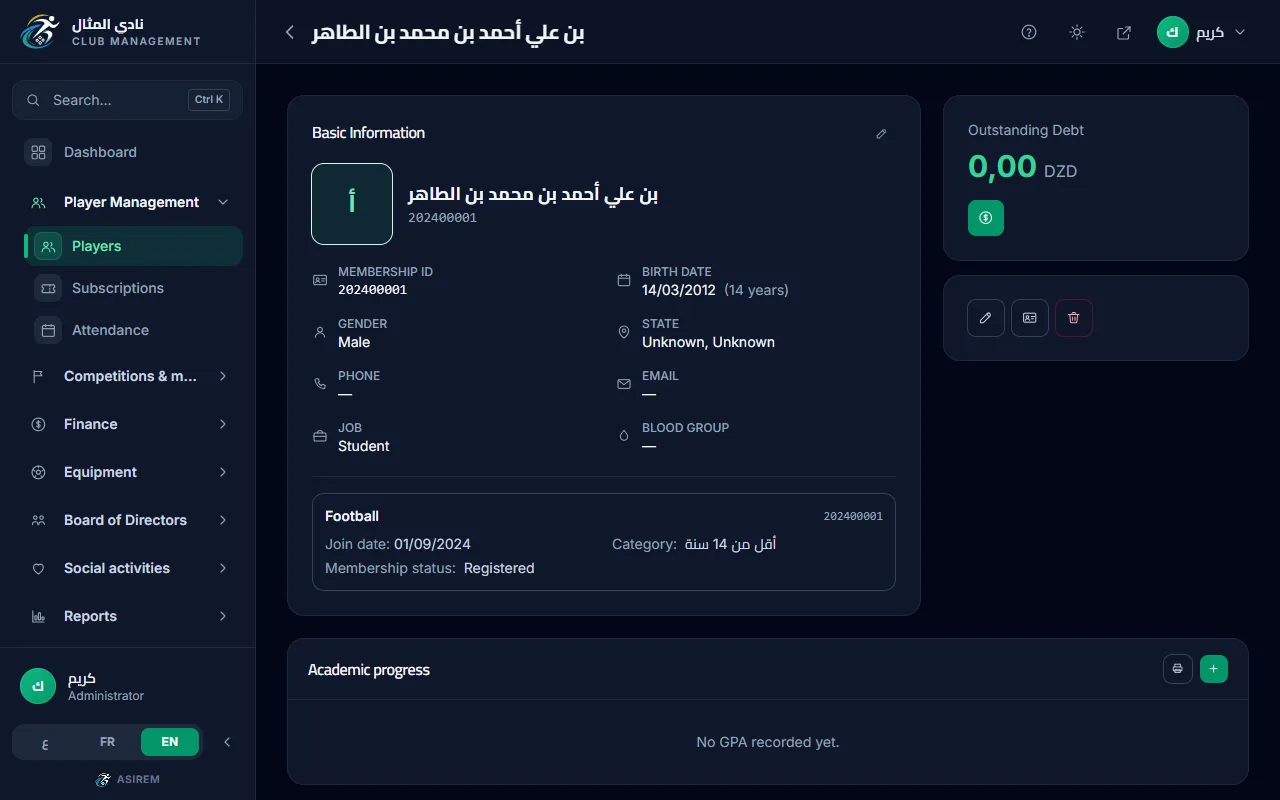
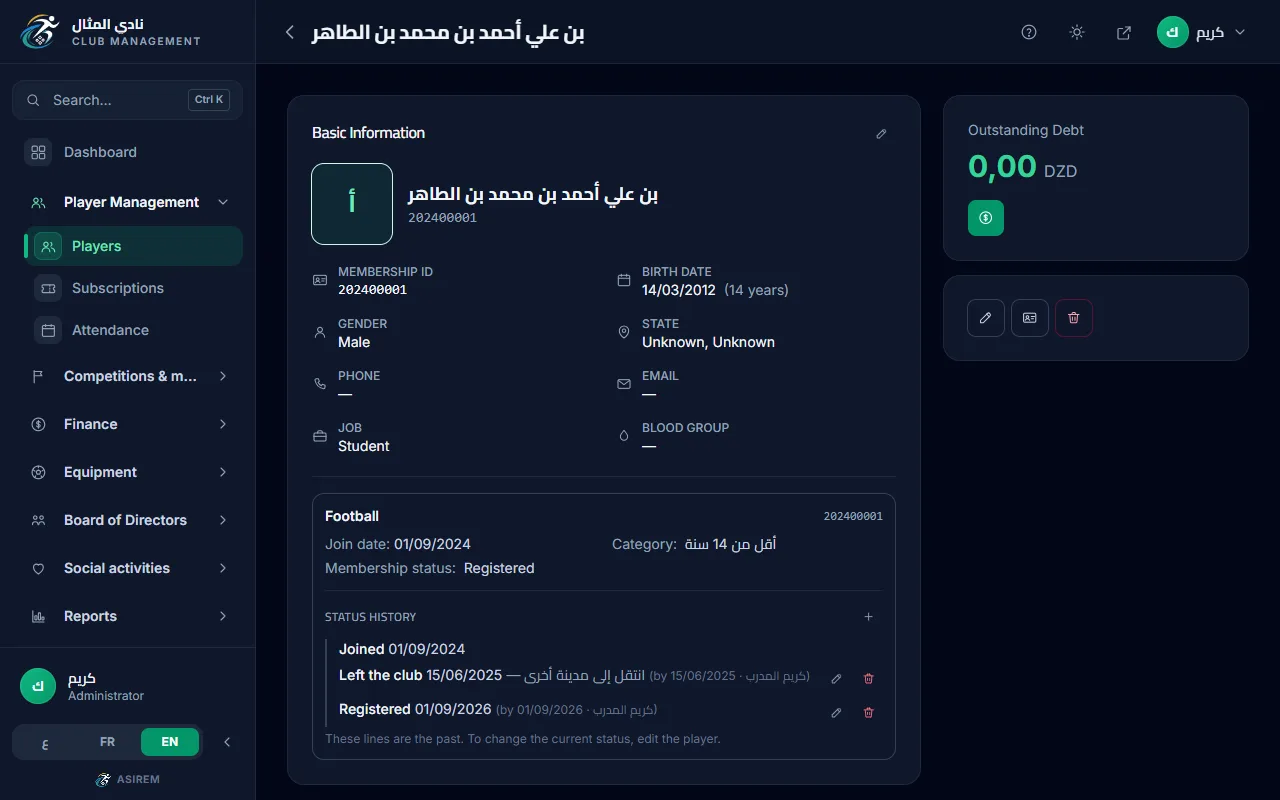
docs(help): screenshots for the status-history article
Five figures in ar/fr/en: the edit button, the status change on أحمد's
football card (left the club, 15/06/2025, reason), and his status history
with the add-past-line and edit-line buttons. The demo club gives أحمد a
departure on 15/06/2025 and a return on 01/09/2026.

The player-page shots predated the history section and are retaken. With a
history under each card, ياسين's two cards no longer fit under the branch
tabs, so they get their own shot (player-show-2-cards), used by the
branch-registrations article.

The recorder's name in a history line sits in a <bdi>: an Arabic name in the
French or English line reordered the date and brackets around it.

Changed region(s): [[0.2188, 0.75, 0.6562, 0.9375], [0.9062, 0.8125, 0.9688, 0.875], [0.5938, 0.8438, 0.625, 0.875]]

diff --git a/resources/js/Pages/Players/Partials/RegistrationsSection.vue b/resources/js/Pages/Players/Partials/RegistrationsSection.vue
@@ -46,6 +46,10 @@ function confirmDelete() {
 }
 
 const recordedOn = (line) => (line.recorded_at ? props.formatDate(line.recorded_at) : '');
+
+// "by {name}" split around the name, so the name sits in its own <bdi>: an Arabic name in the
+// French or English sentence would otherwise reorder the date and brackets around it.
+const byParts = () => t('status_history.by', { name: '\u0000' }).split('\u0000');
 </script>
 
 <template>
@@ -83,10 +87,10 @@ const recordedOn = (line) => (line.recorded_at ? props.formatDate(line.recorded_
                 <div v-if="registration.sporting_status"><dt class="inline text-slate-500 dark:text-slate-400">{{ t('sporting_status') }}:</dt> <dd class="ms-1 inline">{{ named(registration.sporting_status) }}</dd></div>
             </dl>
 
-            <section v-if="registration.status_history" class="mt-3 border-t border-slate-100 pt-3 dark:border-slate-800" data-help="player-status-history">
+            <section v-if="registration.status_history" class="mt-3 border-t border-slate-100 pt-3 dark:border-slate-800" :data-help="index === 0 ? 'player-status-history' : undefined">
                 <div class="flex items-center justify-between gap-2">
                     <h4 class="text-xs font-semibold uppercase tracking-wide text-slate-500 dark:text-slate-400">{{ t('status_history.title') }}</h4>
-                    <IconButton v-if="canEditHistory()" icon="plus" :label="t('status_history.add')" plain size="sm" @click="openAdd(registration)" />
+                    <IconButton v-if="canEditHistory()" icon="plus" :label="t('status_history.add')" plain size="sm" :data-help="index === 0 ? 'player-status-add' : undefined" @click="openAdd(registration)" />
                 </div>
                 <ol class="mt-2 space-y-1.5 border-s-2 border-slate-200 ps-3 text-sm dark:border-slate-700">
                     <li class="text-slate-600 dark:text-slate-300">
@@ -97,15 +101,15 @@ const recordedOn = (line) => (line.recorded_at ? props.formatDate(line.recorded_
                             <template v-else>—</template>
                         </span>
                     </li>
-                    <li v-for="line in registration.status_history" :key="line.id" class="flex items-start justify-between gap-2 text-slate-600 dark:text-slate-300">
+                    <li v-for="(line, lineIndex) in registration.status_history" :key="line.id" class="flex items-start justify-between gap-2 text-slate-600 dark:text-slate-300">
                         <div class="min-w-0">
                             <span class="font-medium text-slate-800 dark:text-slate-100">{{ line.to_status ? named(line.to_status) : t('status_history.removed_status') }}</span>
                             <span class="ms-1">{{ formatDate(line.changed_on) }}</span>
                             <span v-if="line.note" class="ms-1 text-slate-500 dark:text-slate-400">— {{ line.note }}</span>
-                            <span v-if="line.user" class="ms-1 text-xs text-slate-400 dark:text-slate-500">({{ t('status_history.by', { name: line.user }) }}<template v-if="recordedOn(line)"> · {{ recordedOn(line) }}</template>)</span>
+                            <span v-if="line.user" class="ms-1 text-xs text-slate-400 dark:text-slate-500">({{ byParts()[0] }}<bdi>{{ line.user }}</bdi>{{ byParts()[1] ?? '' }}<template v-if="recordedOn(line)"> · {{ recordedOn(line) }}</template>)</span>
                         </div>
                         <div v-if="canEditHistory()" class="flex shrink-0 items-center gap-1">
-                            <IconButton icon="pencil" :label="t('status_history.edit')" plain size="sm" icon-only @click="openEdit(line)" />
+                            <IconButton icon="pencil" :label="t('status_history.edit')" plain size="sm" icon-only :data-help="index === 0 && lineIndex === 0 ? 'player-status-edit' : undefined" @click="openEdit(line)" />
                             <IconButton icon="trash" :label="t('status_history.delete')" variant="danger" plain size="sm" icon-only @click="deleting = line" />
                         </div>
                     </li>

diff --git a/resources/help/shots.js b/resources/help/shots.js
@@ -42,6 +42,8 @@ const DATA = {
     'السباحة': { fr: 'Natation', en: 'Swimming' },
     // Built-in role (RoleSeeder).
     'مدرب': { fr: 'Entraîneur', en: 'Coach' },
+    // Built-in membership status (create_player_statuses_table migration).
+    'غادر الفريق': { fr: 'A quitté le club', en: 'Left the club' },
 };
 // Built-in finance categories: 'base name' => ['fr', 'ar'] (App\Support\FinanceCategoryTranslations);
 // English shows the base name.
@@ -196,7 +198,15 @@ export default [
     },
     { name: 'player-show', url: '/players/1', targets: ['player-header', 'player-registrations', 'player-actions', 'player-edit'] },
     // Player 2 (ياسين بوزيد) plays football and swims: two cards, and the branch tabs.
-    { name: 'player-show-2', url: '/players/2', targets: ['player-tabs', 'player-registrations'] },
+    { name: 'player-show-2', url: '/players/2', targets: ['player-tabs'] },
+    // Each card carries its «سجل الحالة»: the two cards end below the screen (and the tabs above
+    // it once they show), so they have their own shot, scrolled to them.
+    {
+        name: 'player-show-2-cards',
+        url: '/players/2',
+        targets: ['player-registrations'],
+        before: async (page) => { await centre(page, 'player-registrations'); },
+    },
     {
         name: 'player-documents',
         url: '/players/1',
@@ -259,6 +269,27 @@ export default [
             await blur(page);
             await centre(page, 'player-branch-card');
         },
+    },
+    {
+        // The status-history example: أحمد leaves football. «غادر الفريق» on his card brings the
+        // «تاريخ التغيير» and «ملاحظة» fields; 15/06/2025 and the reason are typed. Never saved.
+        name: 'player-edit-status',
+        url: '/players/1/edit',
+        targets: ['player-branch-card', 'player-status', 'player-status-date', 'player-status-note'],
+        before: async (page) => {
+            await choose(page.locator('[data-help="player-status"] select'), 'غادر الفريق');
+            await page.locator('[data-help="player-status-date"] input').fill('2025-06-15');
+            await page.locator('[data-help="player-status-note"] input').fill('انتقل إلى مدينة أخرى');
+            await blur(page);
+            await centre(page, 'player-status');
+        },
+    },
+    {
+        // أحمد's football history (HelpDemoSeeder::seedStatusHistory): left 15/06/2025, back 01/09/2026.
+        name: 'player-status-history',
+        url: '/players/1',
+        targets: ['player-status-history', 'player-status-add', 'player-status-edit'],
+        before: async (page) => { await centre(page, 'player-status-history'); },
     },
     // The list is longer than the screen: the first row carries the ring.
     { name: 'join-dates', url: '/players/join-dates', targets: ['join-dates-row'] },

diff --git a/resources/js/Pages/Players/Partials/RegistrationCard.vue b/resources/js/Pages/Players/Partials/RegistrationCard.vue
@@ -173,7 +173,7 @@ const dateRequired = computed(() => props.card.is_new || props.card.had_date);
                 <TextInput v-model="card.licence_number" class="mt-1 w-full" maxlength="50" dir="ltr" />
                 <InputError :message="fieldError('licence_number')" class="mt-1" />
             </div>
-            <div>
+            <div :data-help="index === 0 ? 'player-status' : undefined">
                 <InputLabel :value="t('membership_status')" />
                 <select v-model="card.status_id" :class="selectClass">
                     <option value="">-</option>
@@ -182,12 +182,12 @@ const dateRequired = computed(() => props.card.is_new || props.card.had_date);
                 <InputError :message="fieldError('status_id')" class="mt-1" />
             </div>
             <template v-if="changing">
-                <div>
+                <div :data-help="index === 0 ? 'player-status-date' : undefined">
                     <InputLabel :value="t('status_change.date') + ' *'" />
                     <TextInput v-model="card.status_changed_on" type="date" class="mt-1 w-full" :max="today" required />
                     <InputError :message="fieldError('status_changed_on')" class="mt-1" />
                 </div>
-                <div>
+                <div :data-help="index === 0 ? 'player-status-note' : undefined">
                     <InputLabel :value="t('status_change.note')" />
                     <TextInput v-model="card.status_note" class="mt-1 w-full" maxlength="255" :placeholder="t('status_change.note_hint')" />
                     <InputError :message="fieldError('status_note')" class="mt-1" />

diff --git a/database/seeders/HelpDemoSeeder.php b/database/seeders/HelpDemoSeeder.php
@@ -6,6 +6,8 @@ use App\Models\Branch;
 use App\Models\Category;
 use App\Models\DocumentType;
 use App\Models\Player;
+use App\Models\PlayerStatus;
+use App\Models\RegistrationStatusChange;
 use App\Models\User;
 use App\Models\WebsiteConfig;
 use App\Services\Player\MembershipNumber;
@@ -183,5 +185,37 @@ class HelpDemoSeeder extends Seeder
         $this->call(HelpDemoBoardSeeder::class);
         $this->call(HelpDemoCompetitionsSeeder::class);
         $this->call(HelpDemoSocialSeeder::class);
+
+        $this->seedStatusHistory();
+    }
+
+    /**
+     * The status-history article's example: أحمد left football on 15/06/2025 and came back on
+     * 01/09/2026, both recorded by the demo user on the day. Written as plain lines (the article
+     * shows what the player form would have kept); his current status stays «منخرط».
+     */
+    private function seedStatusHistory(): void
+    {
+        $registration = Player::query()->orderBy('id')->firstOrFail()->registrations()->firstOrFail();
+        $statuses = PlayerStatus::query()->whereIn('code', ['registered', 'left'])->pluck('id', 'code');
+        $userId = User::where('username', self::USERNAME)->value('id');
+
+        foreach ([
+            ['registered', 'left', '2025-06-15', 'انتقل إلى مدينة أخرى'],
+            ['left', 'registered', '2026-09-01', null],
+        ] as [$from, $to, $day, $note]) {
+            $line = new RegistrationStatusChange([
+                'branch_registration_id' => $registration->id,
+                'from_status_id' => $statuses[$from],
+                'to_status_id' => $statuses[$to],
+                'changed_on' => $day,
+                'note' => $note,
+                'user_id' => $userId,
+                'origin' => RegistrationStatusChange::ORIGIN_FORM,
+            ]);
+            // Recorded on the day, so the shots don't change with the seed day.
+            $line->created_at = $line->updated_at = $day.' 10:00:00';
+            $line->save();
+        }
     }
 }

diff --git a/resources/help/ar/players/status-history.md b/resources/help/ar/players/status-history.md
@@ -14,14 +14,17 @@ related: [players/branch-registrations, players/edit-player, players/player-page
 
 :::step افتح صفحة «تعديل اللاعب»
 في صفحة أحمد، اضغط على الزر الذي عليه رسم قلم، واسمه «تعديل اللاعب».
+::figure player-show ring=player-edit zoom=player-edit
 :::
 
 :::step غيّر «حالة العضوية»
 في بطاقة «كرة القدم»، اختر «غادر الفريق». تظهر خانتان: «تاريخ التغيير» و«ملاحظة».
+::figure player-edit-status ring=player-status
 :::
 
 :::step اكتب التاريخ والسبب
 في «تاريخ التغيير»، اختر 15/06/2025. في «ملاحظة»، اكتب السبب إن شئت. ثم اضغط «حفظ التغييرات».
+::figure player-edit-status ring=player-status-date zoom=player-status-date
 :::
 
 :::step سجّل العودة بالطريقة نفسها
@@ -30,10 +33,12 @@ related: [players/branch-registrations, players/edit-player, players/player-page
 
 :::step اقرأ «سجل الحالة»
 في صفحة اللاعب، تحت كل فرع، يظهر «سجل الحالة»: تاريخ الانضمام، ثم كل تغيير بتاريخه وملاحظته ومن سجّله.
+::figure player-status-history ring=player-status-history
 :::
 
 :::step أضف ما حدث قبل اليوم
 لتسجيل مغادرة قديمة، اضغط «إضافة سطر سابق» في «سجل الحالة». لتصحيح سطر، اضغط زر القلم بجانبه.
+::figure player-status-history ring=player-status-add zoom=player-status-edit
 :::
 
 :::warning

diff --git a/resources/help/fr/players/status-history.md b/resources/help/fr/players/status-history.md
@@ -14,14 +14,17 @@ Chaque section a son propre historique du statut. Chaque changement du « Statut
 
 :::step Ouvrez la page « Modifier le joueur »
 Sur la page d'Ahmed, cliquez sur le bouton avec un crayon, nommé « Modifier le joueur ».
+::figure player-show ring=player-edit zoom=player-edit
 :::
 
 :::step Changez le « Statut d'adhésion »
 Dans la carte « كرة القدم », choisissez « A quitté le club ». Deux champs apparaissent : « Date du changement » et « Note ».
+::figure player-edit-status ring=player-status
 :::
 
 :::step Indiquez la date et la raison
 Dans « Date du changement », choisissez le 15/06/2025. Dans « Note », écrivez la raison si vous voulez. Puis cliquez sur « Enregistrer les modifications ».
+::figure player-edit-status ring=player-status-date zoom=player-status-date
 :::
 
 :::step Notez le retour de la même façon
@@ -30,10 +33,12 @@ Le jour de son retour, remettez le « Statut d'adhésion » sur le statut d'insc
 
 :::step Lisez l'« Historique du statut »
 Sur la page du joueur, sous chaque section, l'« Historique du statut » montre la date d'adhésion, puis chaque changement avec sa date, sa note et son auteur.
+::figure player-status-history ring=player-status-history
 :::
 
 :::step Ajoutez ce qui s'est passé avant
 Pour noter un ancien départ, cliquez sur « Ajouter une ligne passée » dans l'« Historique du statut ». Pour corriger une ligne, cliquez sur le crayon à côté.
+::figure player-status-history ring=player-status-add zoom=player-status-edit
 :::
 
 :::warning

diff --git a/resources/help/en/players/status-history.md b/resources/help/en/players/status-history.md
@@ -14,14 +14,17 @@ Each branch has its own status history. Every change of “Membership status” 
 
 :::step Open the “Edit Player” page
 On Ahmed's page, click the button with a pencil, named “Edit Player”.
+::figure player-show ring=player-edit zoom=player-edit
 :::
 
 :::step Change the “Membership status”
 In the “كرة القدم” card, choose “Left the club”. Two fields appear: “Date of change” and “Note”.
+::figure player-edit-status ring=player-status
 :::
 
 :::step Type the date and the reason
 In “Date of change”, choose 15/06/2025. In “Note”, type the reason if you want. Then click “Save Changes”.
+::figure player-edit-status ring=player-status-date zoom=player-status-date
 :::
 
 :::step Record the return the same way
@@ -30,10 +33,12 @@ On the day he comes back, set the “Membership status” back to the registered
 
 :::step Read the “Status history”
 On the player page, under each branch, the “Status history” shows the join date, then every change with its date, note and who recorded it.
+::figure player-status-history ring=player-status-history
 :::
 
 :::step Add what happened before
 To record an old departure, click “Add a past line” in the “Status history”. To correct a line, click the pencil next to it.
+::figure player-status-history ring=player-status-add zoom=player-status-edit
 :::
 
 :::warning

diff --git a/resources/help/ar/players/branch-registrations.md b/resources/help/ar/players/branch-registrations.md
@@ -34,7 +34,7 @@ related: [players/add-player, players/edit-player, players/player-page, players/
 
 :::step تحقّق في صفحة اللاعب
 تعود إلى صفحة أحمد. في أسفل «المعلومات الأساسية» صار له مربعان: «كرة القدم» و«السباحة». هكذا تبدو صفحة ياسين بوزيد، المسجّل في الفرعين أيضًا.
-::figure player-show-2 ring=player-registrations
+::figure player-show-2-cards ring=player-registrations
 :::
 
 :::step افتح «استكمال تواريخ الانضمام»

diff --git a/resources/help/fr/players/branch-registrations.md b/resources/help/fr/players/branch-registrations.md
@@ -34,7 +34,7 @@ Le bouton est en bas de la page. Pour y descendre, tournez la molette de la sour
 
 :::step Vérifiez sur la page du joueur
 Vous revenez sur la page du joueur. En bas des « Informations de base », il a maintenant deux encadrés : « Football » et « Natation ». Voici la page de ياسين بوزيد, lui aussi inscrit dans les deux sections.
-::figure player-show-2 ring=player-registrations
+::figure player-show-2-cards ring=player-registrations
 :::
 
 :::step Ouvrez « Dates d'adhésion à compléter »

diff --git a/resources/help/en/players/branch-registrations.md b/resources/help/en/players/branch-registrations.md
@@ -34,7 +34,7 @@ The button is at the bottom of the page. To get there, roll the mouse wheel towa
 
 :::step Check on the player's page
 You are back on the player's page. At the bottom of “Basic Information” there are now two boxes: “Football” and “Swimming”. This is the page of ياسين بوزيد, who is also in both branches.
-::figure player-show-2 ring=player-registrations
+::figure player-show-2-cards ring=player-registrations
 :::
 
 :::step Open “Join dates to complete”
